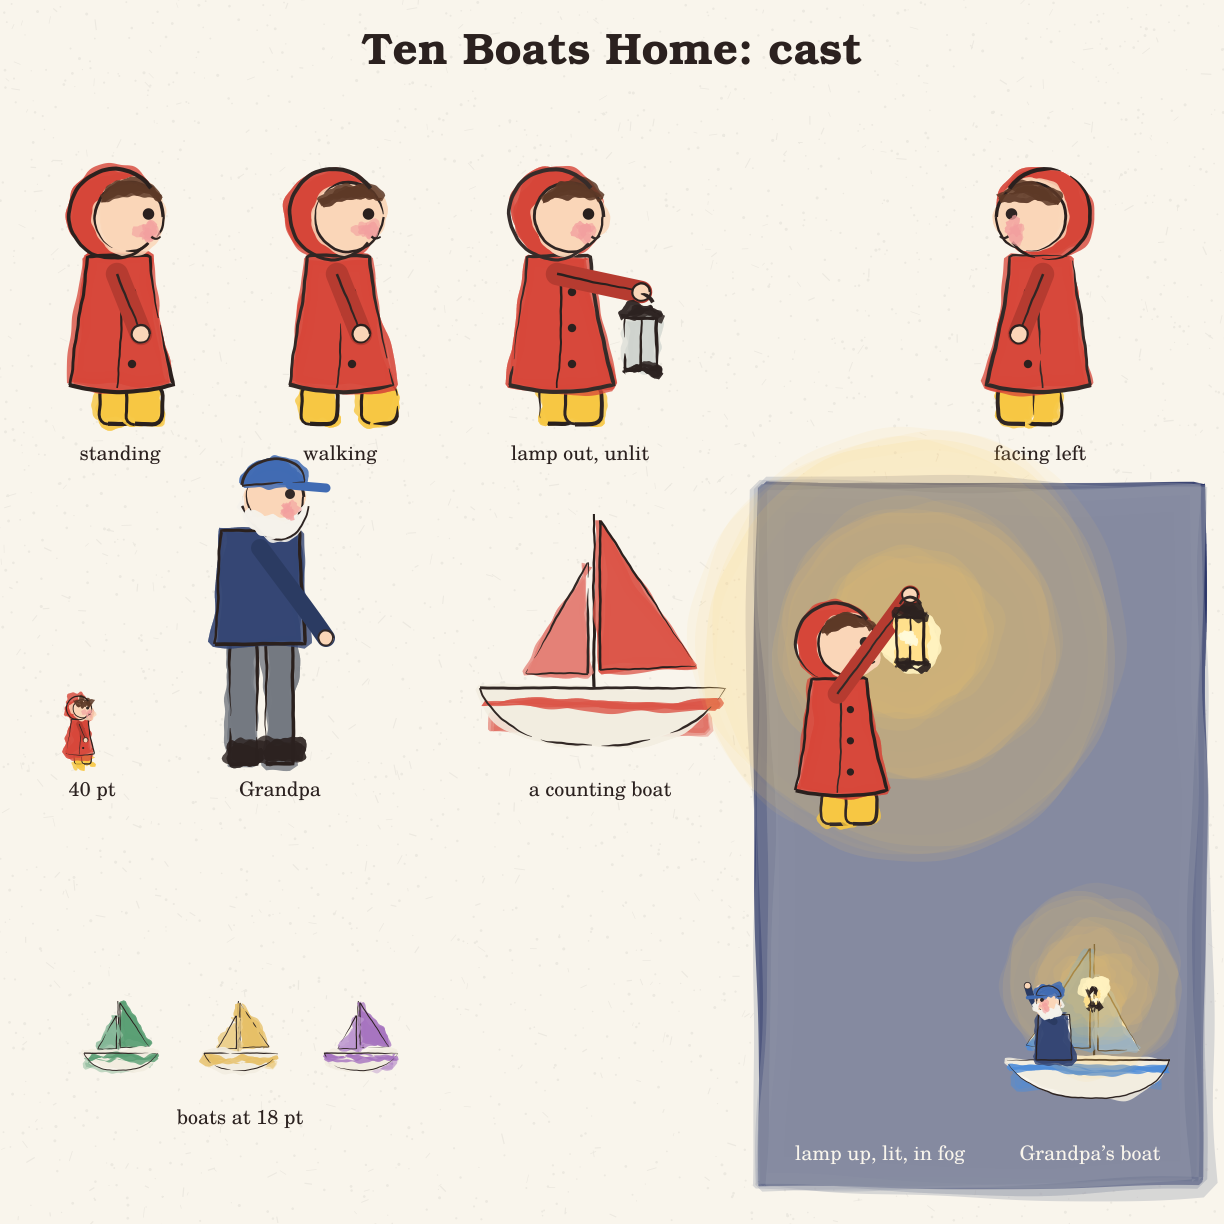
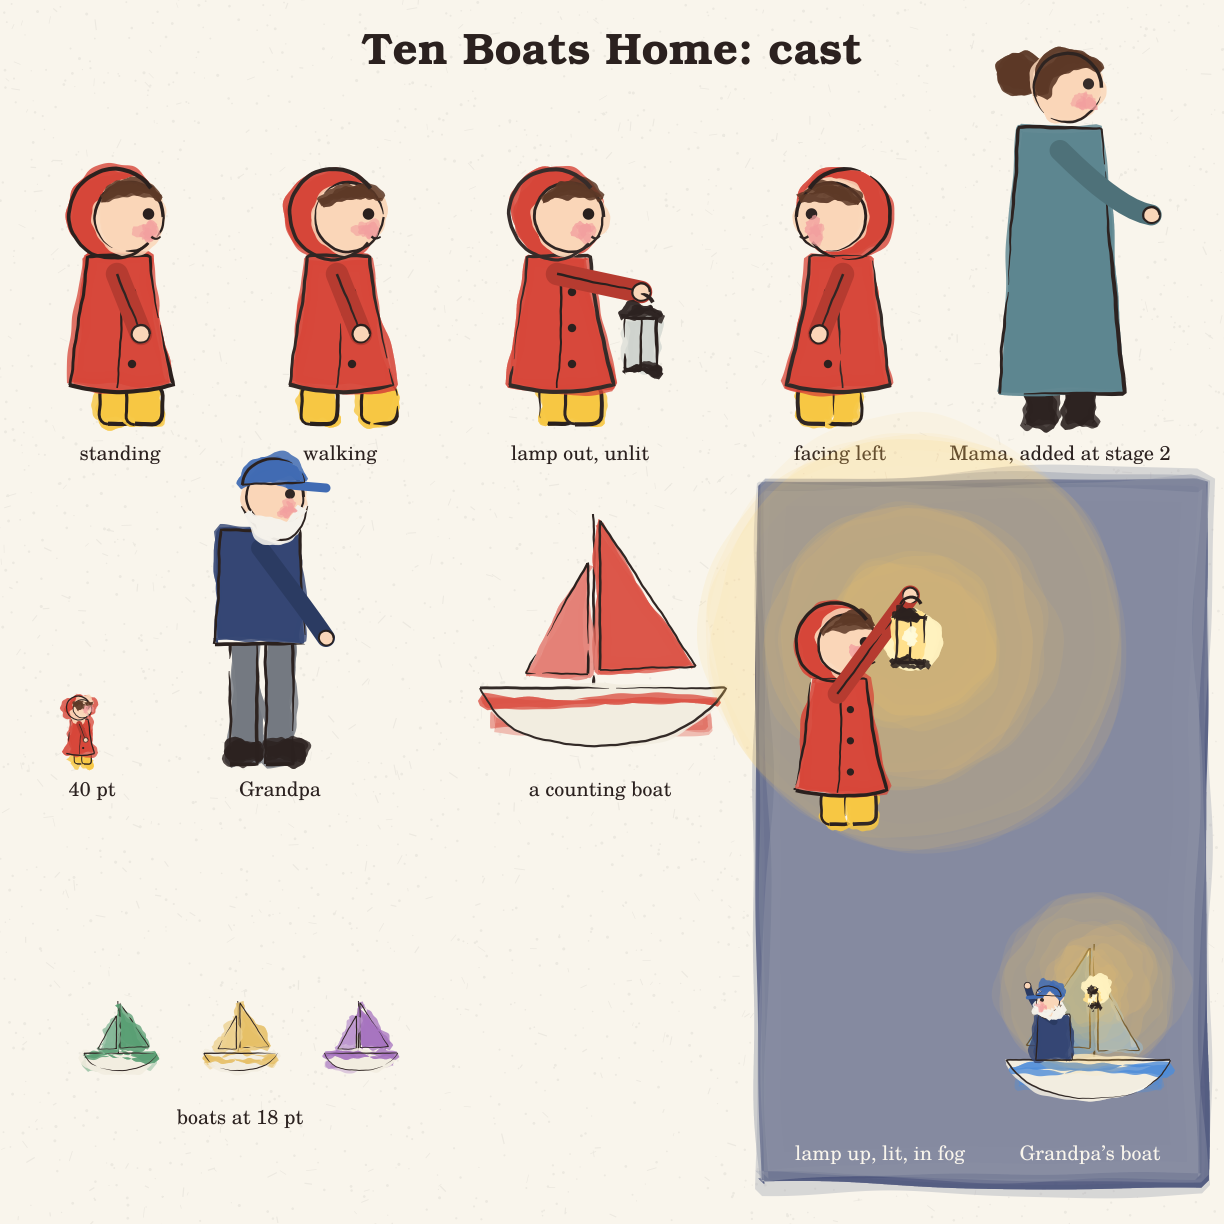
Ten Boats Home, stage 2: manuscript; Mama joins the cast
Claude-Session: https://claude.ai/code/session_016y8NtRj8PY1qWienx1Qbqw

diff --git a/books/ten-boats-home/02-manuscript.md b/books/ten-boats-home/02-manuscript.md
@@ -1,0 +1,107 @@
+# Stage 2: Manuscript
+
+## The text, read aloud
+
+> Every evening, the fishing boats come home to the harbour. And every
+> evening, Ana stands at the end of the pier and counts them in.
+>
+> She is waiting for one boat most of all: Grandpa's little blue one.
+>
+> Here comes a boat with a red sail. *One!* Not Grandpa's.
+>
+> Here comes a boat with a green sail. *Two!* Not Grandpa's.
+>
+> *Three, four, five.* The sun slips down behind the hill. Not Grandpa's,
+> not Grandpa's, not Grandpa's.
+>
+> *Six, seven, eight, nine.* The harbour fills with masts, and the sky turns
+> purple. But not one of them is little, and not one of them is blue.
+>
+> Then the fog comes in. Soft and grey, it fills the harbour, until Ana
+> cannot even see the end of the pier.
+>
+> "Where is Grandpa?" Ana whispers. "How will he find the harbour in all
+> this grey?"
+>
+> Then Ana remembers the old lamp on its hook. "Mama," she says, "can we
+> light it for him?"
+>
+> Mama lights the wick. Ana carries the lamp, step by careful step, all the
+> way to the end of the pier, and Mama walks right behind.
+>
+> And there, Ana holds it high.
+>
+> Out in the fog, something blinks back. A little light. A little boat. A
+> little *blue* boat.
+>
+> *Ten!* Ten boats home. And this one is Grandpa's.
+>
+> "I knew the way," says Grandpa, "but your light made it feel very close."
+> And they all walk home together, with the lamp to light the way.
+
+**Word count:** 244 (story pages only, counted with `wc -w`). The target was 300–600 for ages 3–6.
+It comes in under, which is right for a counting book: the pictures do the
+counting and the words make room for the child to count aloud.
+
+## Page plan
+
+Shot: **W** wide, **M** mid, **C** close. → / ← is the direction of travel:
+boats sail **←** (homeward), Ana faces **→** (out to sea, waiting), and on
+the walk home everyone goes **←**.
+
+| # | Text (abridged) | The one drawable moment | Shot | Light |
+|---|---|---|---|---|
+| 0 | *Ten Boats Home* | Ana on the pier, lamp on its hook, boats on a gold sea | W | gold |
+| 1 | Every evening … counts them in. | Whole harbour: pier, village, Ana small at the pier's end, the lamp on its hook at the near end | W | gold |
+| 2 | Waiting for … Grandpa's little blue one. | Ana close at the rail looking → to an empty sea | M | gold |
+| 3 | A red sail. *One!* Not Grandpa's. | A red-sailed boat sails ← past Ana | M | gold |
+| 4 | A green sail. *Two!* Not Grandpa's. | A green boat ←, the red one moored behind | M | late gold |
+| 5 | *Three, four, five.* The sun slips down. | Five boats, the sun half behind the hill | W | sunset |
+| 6 | *Six … nine.* Masts, purple sky. Not little, not blue. | Nine boats moored, a forest of masts, Ana small | W | dusk |
+| 7 | Then the fog comes in … cannot see the end of the pier. | The same view, half swallowed by fog; the pier fades out | W | fog |
+| 8 | "Where is Grandpa?" … "all this grey?" | Ana close, worried, fog around her | C | fog |
+| 9 | The old lamp on its hook. "Mama … light it for him?" | Ana reaching up to the lamp on its hook; Mama beside her | M | fog |
+| 10 | Mama lights the wick … step by careful step. | Ana walking → along the pier with the lit lamp, Mama right behind | M | fog, one warm light |
+| 11 | And there, Ana holds it high. | **The heart's page:** tiny Ana at the pier's end, lamp high, a huge glow in a huge grey | W | fog-night, gold |
+| 12 | Something blinks back … a little *blue* boat. | Grandpa's blue boat coming ← out of the fog, its own lantern lit | M | fog-night |
+| 13 | *Ten!* … this one is Grandpa's. | Grandpa waving from his boat at the pier; Ana with the lamp | C | fog-night, gold |
+| 14 | "I knew the way" … walk home together. | Grandpa, Ana and Mama walking ← along the harbour toward lit windows | W | night, clearing |
+| 15 | *The End* | The lamp back on its hook, lit | C | night |
+
+## Page turns
+
+- **1 → 2 → 3:** the opening sets up the counting game, and each turn
+  delivers the next boat (1, 2, then the jump to 3–5).
+- **6 → 7:** the counting stops at nine, and the turn reveals **fog**, not
+  the tenth boat. This is the book's first big turn.
+- **10 → 11:** the walk ends and the turn reveals the lamp held high, with
+  the biggest light in the book.
+- **12 → 13:** "a little blue boat", then the turn to *Ten!* The refrain
+  finally changes.
+
+## Checking the heart
+
+- **Acted, not told.** The choice happens on pages 9–11: Ana remembers,
+  asks, carries and holds up the lamp. No narrator line states a moral. The
+  one character line that comes near the idea is Grandpa's, and it's about
+  how the light *felt*, not a lesson.
+- **The obstacle tests it.** Without the fog, waiting would be enough. The
+  fog makes waiting helpless, which is exactly the condition under which
+  "turn waiting into doing" means something.
+- **What it is not.** Two lines exist to keep the heart honest:
+  - *"I knew the way."* Grandpa is never in danger because of Ana's
+    absence. Her light is a gift, not a rescue.
+  - *"Mama walks right behind."* Added at this stage (see below).
+
+## What the manuscript sent back to stage 1
+
+Writing pages 9–11 exposed an unintended reading the ideation missed:
+**a five-year-old alone at the end of a pier at night in fog.** A parent
+reading aloud would wince, and the book would be modelling something
+unsafe. The fix keeps the idea and the action Ana's (she remembers the
+lamp, she asks, she carries it) and puts an adult in the scene:
+
+- **Mama** joins the cast. She lights the wick (Ana doesn't handle fire),
+  and she walks behind Ana, not in front.
+- Mama needs a figure: `cb-mama` in `lib/cb_ana.ps`, added to the hero
+  sheet. In fog she is drawn softly, so Ana stays the brightest figure.
